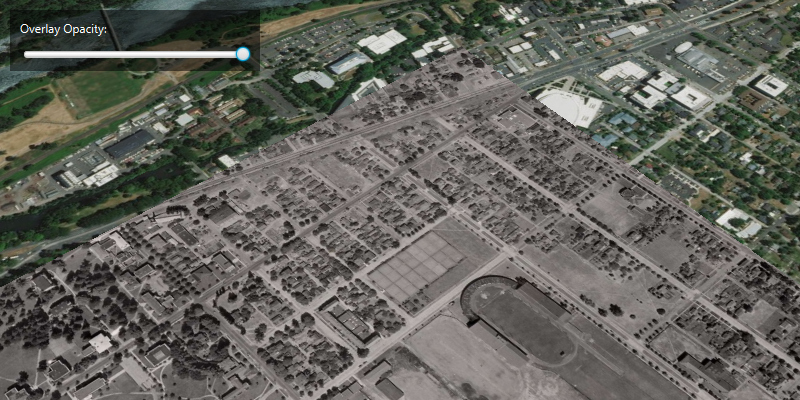
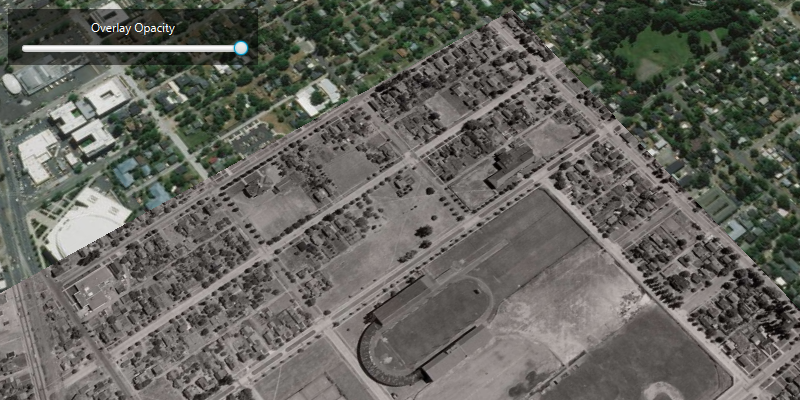
UI changes, simplify applying opacity

diff --git a/kml/edit-kml-ground-overlay/src/main/java/com/esri/samples/edit_kml_ground_overlay/EditKMLGroundOverlaySample.java b/kml/edit-kml-ground-overlay/src/main/java/com/esri/samples/edit_kml_ground_overlay/EditKMLGroundOverlaySample.java
@@ -48,7 +48,9 @@ import com.esri.arcgisruntime.symbology.ColorUtil;
 
 public class EditKMLGroundOverlaySample extends Application {
 
+  private KmlGroundOverlay kmlGroundOverlay;
   private SceneView sceneView;
+  private Slider slider;
 
   @Override
   public void start(Stage stage) {
@@ -79,7 +81,7 @@ public class EditKMLGroundOverlaySample extends Application {
       KmlIcon overlayImage = new KmlIcon(overlayImageURI);
 
       // create the KML ground overlay
-      KmlGroundOverlay kmlGroundOverlay = new KmlGroundOverlay(overlayGeometry, overlayImage);
+      kmlGroundOverlay = new KmlGroundOverlay(overlayGeometry, overlayImage);
 
       // set the rotation of the ground overlay
       kmlGroundOverlay.setRotation(-3.046024799346924);
@@ -97,24 +99,25 @@ public class EditKMLGroundOverlaySample extends Application {
       sceneView.setViewpoint(new Viewpoint(kmlGroundOverlay.getExtent(), new Camera(kmlGroundOverlay.getGeometry().getExtent().getCenter(), 1250, 45, 60, 0)));
 
       // create a slider for adjusting the overlay opacity
-      Slider slider = new Slider(0, 1, 1);
+      slider = new Slider(0, 1, 1);
       slider.setMaxWidth(300);
 
       // add an event handler to the slider to apply opacity to the KML ground overlay based on the slider value
-      slider.setOnMouseReleased(event -> updateGroundOverlayOpacity(kmlGroundOverlay, slider.getValue()));
-      slider.setOnMouseDragged(event -> updateGroundOverlayOpacity(kmlGroundOverlay, slider.getValue()));
+      slider.setOnMouseReleased(event -> setGroundOverlayOpacity());
+      slider.setOnMouseDragged(event -> setGroundOverlayOpacity());
 
       // create a controls box
       VBox controlsVBox = new VBox();
       controlsVBox.setBackground(new Background(new BackgroundFill(Paint.valueOf("rgba(0,0,0,0.5)"), CornerRadii.EMPTY,
               Insets.EMPTY)));
       controlsVBox.setPadding(new Insets(10.0));
-      controlsVBox.setSpacing(10);
+      controlsVBox.setSpacing(5);
       controlsVBox.setMaxSize(250, 20);
+      controlsVBox.setAlignment(Pos.CENTER);
       controlsVBox.getStyleClass().add("panel-region");
 
       // create a label for the slider
-      Label label = new Label("Overlay Opacity: ");
+      Label label = new Label("Overlay Opacity");
       // add the slider and label to the controls box
       controlsVBox.getChildren().addAll(label, slider);
 
@@ -130,13 +133,10 @@ public class EditKMLGroundOverlaySample extends Application {
   }
 
   /**
-   * Updates the color of a KmlGroundOverlay with a provided alpha value.
-   *
-   * @param kmlGroundOverlay a provided KmlGroundOverlay.
-   * @param alphaValue       a double value representing the opacity to be applied.
+   * Changes the opacity of a KmlGroundOverlay using a provided alpha value.
    */
-  private void updateGroundOverlayOpacity(KmlGroundOverlay kmlGroundOverlay, double alphaValue) {
-    kmlGroundOverlay.setColor(ColorUtil.colorToArgb(new Color(0, 0, 0, alphaValue)));
+  private void setGroundOverlayOpacity() {
+    kmlGroundOverlay.setColor(ColorUtil.colorToArgb(new Color(0, 0, 0, slider.getValue())));
   }
 
   /**
